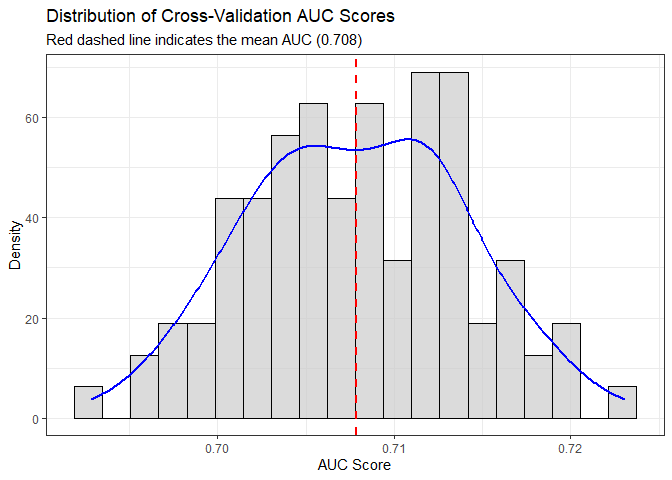
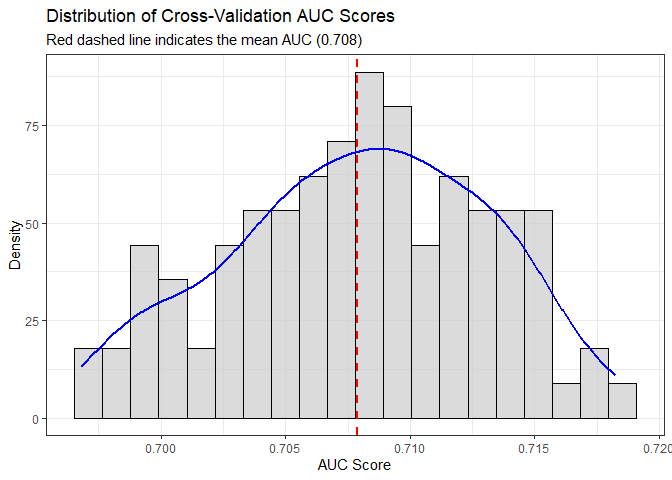
add update

diff --git a/README.md b/README.md
@@ -54,6 +54,10 @@ if (!require("devtools")) {
 devtools::install_github("paanwaris/bean")
 ```
 
+## Package Loading
+
+To perform the necessary analyses, we need several R packages.
+
 ``` r
 # Load required libraries
 library(bean)
@@ -566,7 +570,7 @@ auc_original
 #> 
 #> Summary of AUC Scores:
 #>   Mean_AUC SD_AUC Median_AUC Min_AUC Max_AUC
-#> 1    0.708  0.006      0.708   0.693   0.723
+#> 1    0.708  0.005      0.708   0.697   0.718
 #> 
 #> To see the distribution of AUC scores, run plot(your_results_object).
 
@@ -622,7 +626,7 @@ auc_thinned
 #> 
 #> Summary of AUC Scores:
 #>   Mean_AUC SD_AUC Median_AUC Min_AUC Max_AUC
-#> 1    0.713  0.005      0.712   0.702   0.726
+#> 1    0.713  0.006      0.713   0.699   0.727
 #> 
 #> To see the distribution of AUC scores, run plot(your_results_object).
 
@@ -640,13 +644,13 @@ auc_ttest
 #>  Welch Two Sample t-test
 #> 
 #> data:  auc_original$all_auc_scores and auc_thinned$all_auc_scores
-#> t = -6.6898, df = 191.61, p-value = 2.391e-10
+#> t = -6.3905, df = 188.97, p-value = 1.258e-09
 #> alternative hypothesis: true difference in means is not equal to 0
 #> 95 percent confidence interval:
-#>  -0.006874327 -0.003743713
+#>  -0.006843525 -0.003615189
 #> sample estimates:
 #> mean of x mean of y 
-#> 0.7078550 0.7131641
+#> 0.7078940 0.7131234
 
 # --- 5. Visualize the Comparison ---
 # Combine results into a data frame for plotting
